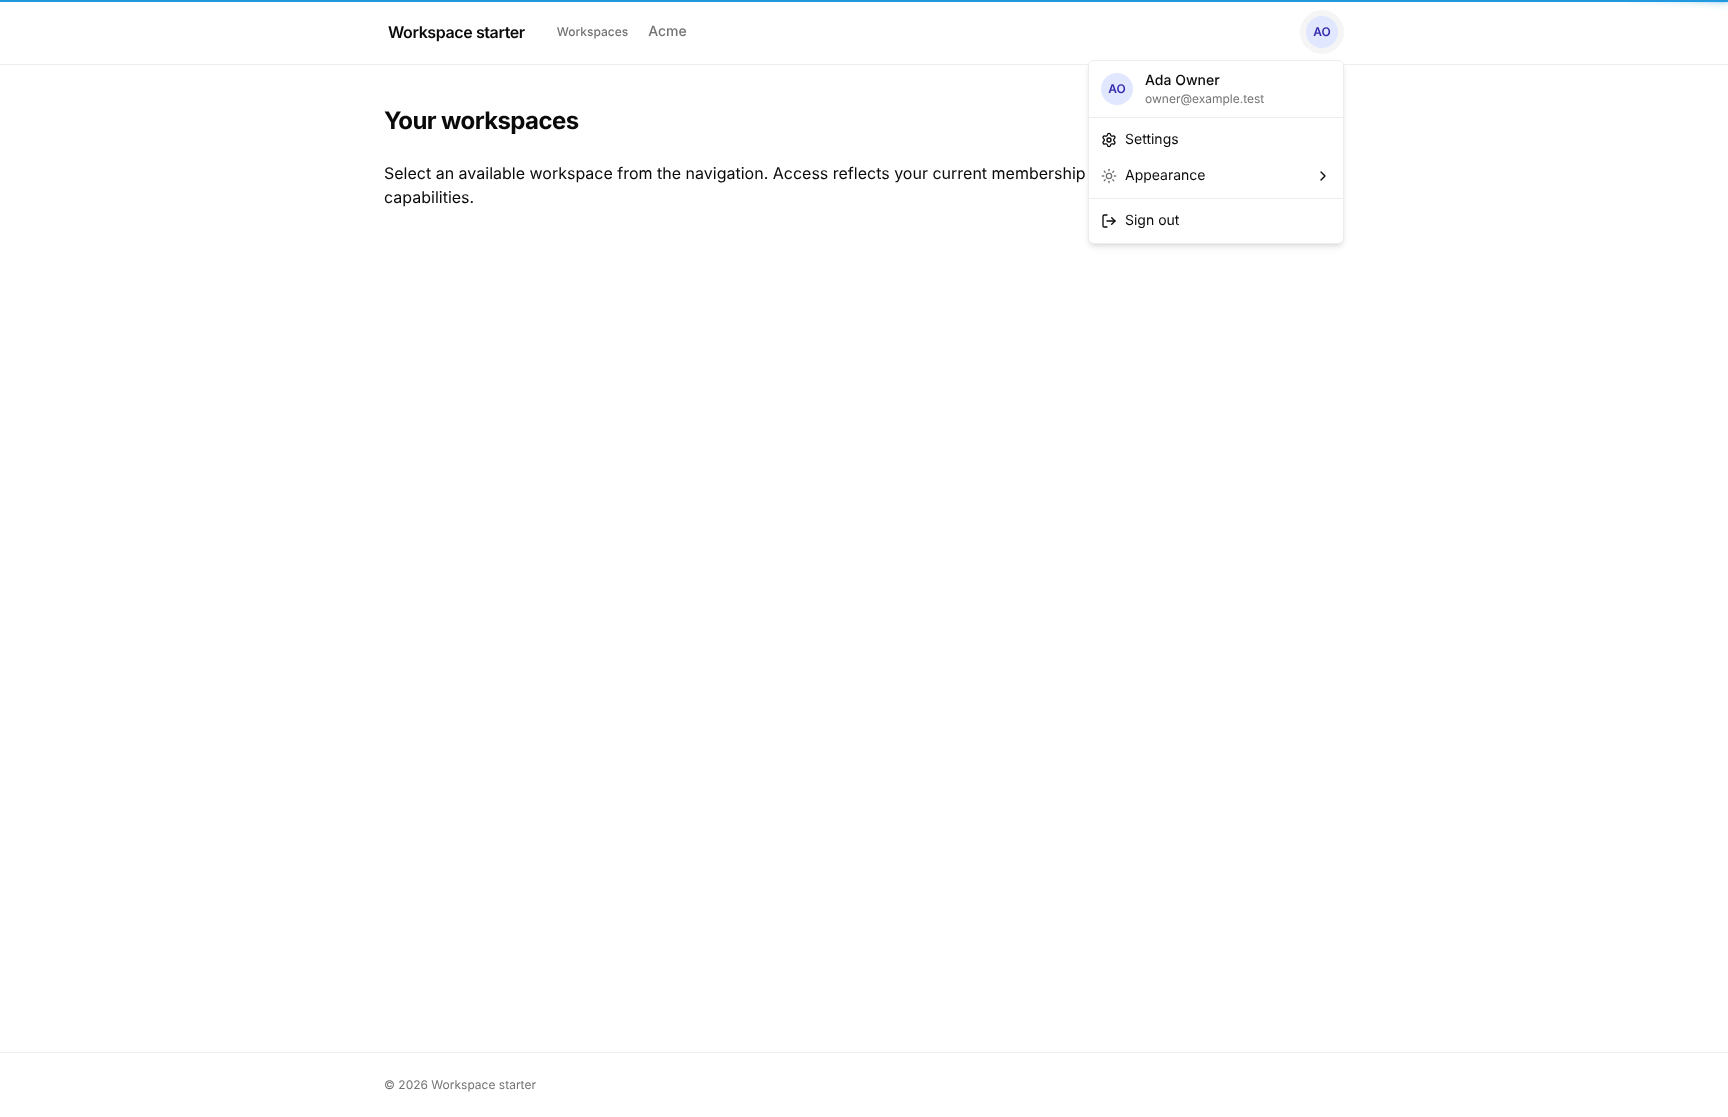
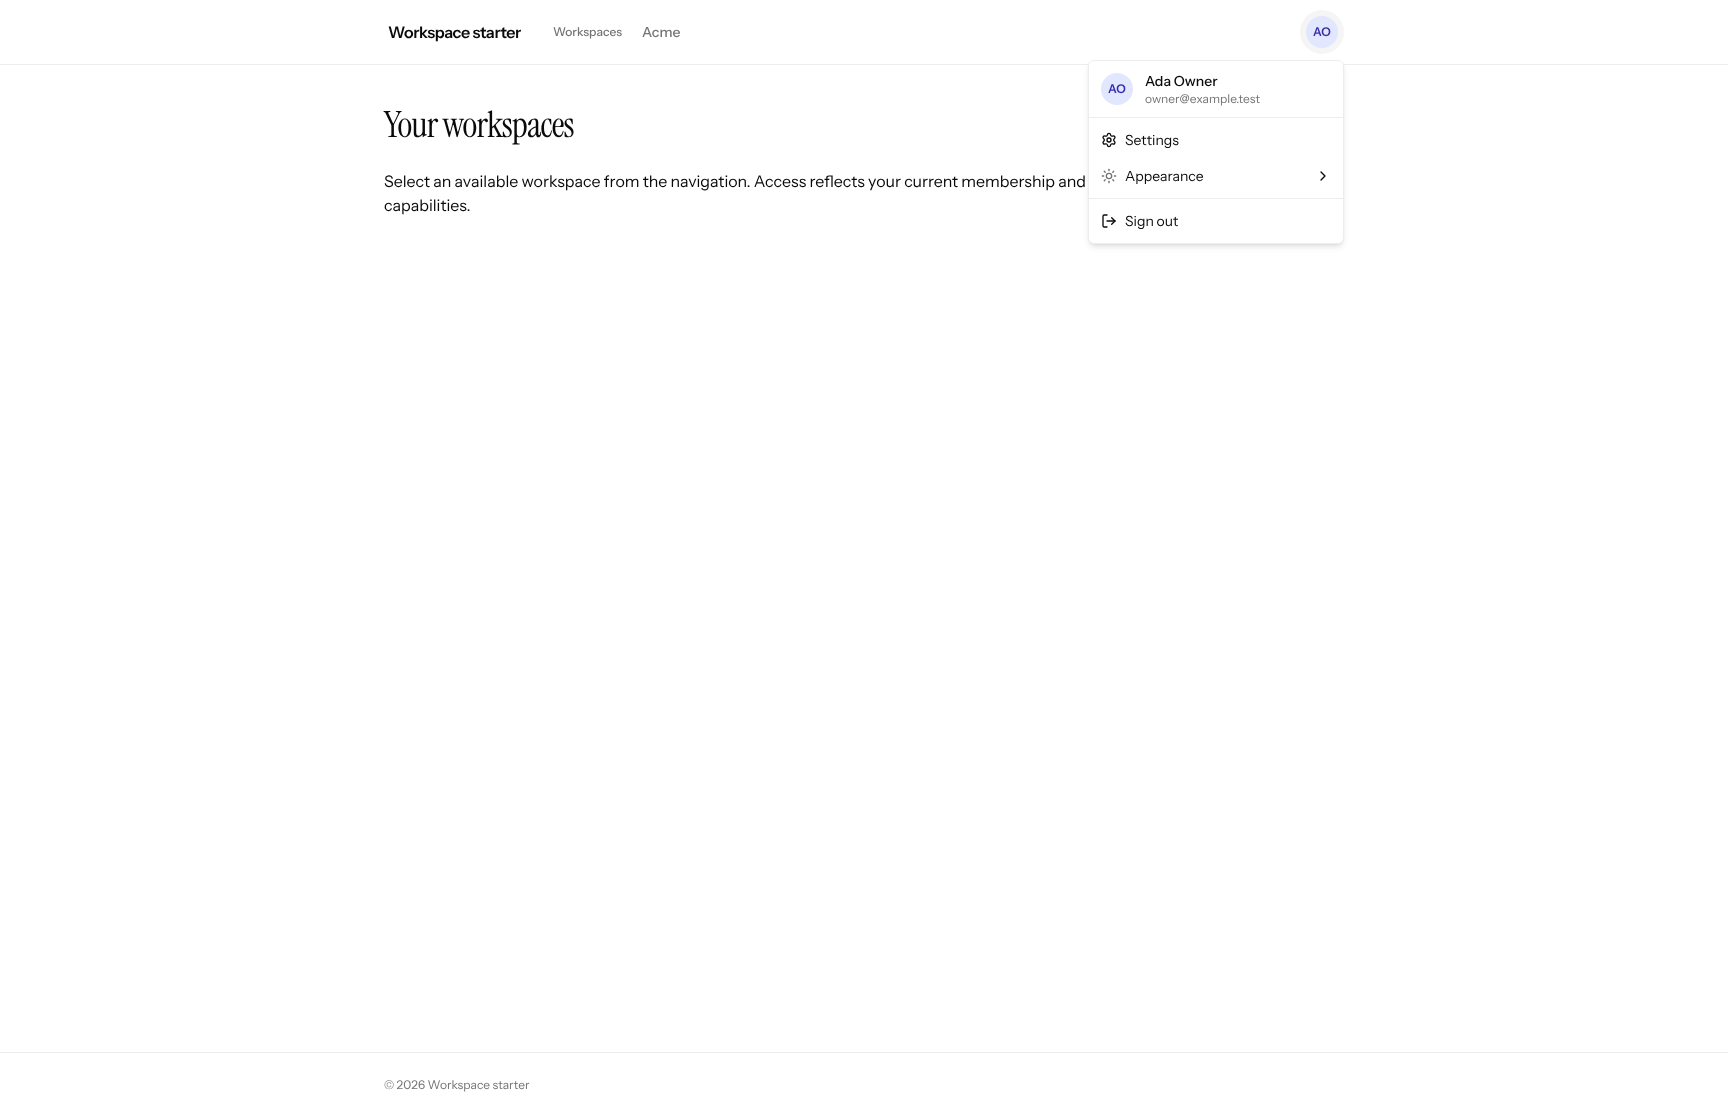
Set the starter's fonts (#44)
* Set the starter's fonts

Instrument Sans for text, Instrument Serif for page and sign-in titles,
and IBM Plex Mono for code, loaded from fonts.bunny.net in the app layout
with system fallbacks, and set as --font-sans, --font-serif and
--font-mono in resources/css/app.css. The browser test waits for the
fonts before each screenshot.

* Refresh the screenshots with the new fonts

diff --git a/resources/css/app.css b/resources/css/app.css
@@ -8,10 +8,17 @@
 @custom-variant dark (&:is(.dark *));
 
 @theme inline {
+    /* Loaded from fonts.bunny.net in resources/views/app.blade.php; the system stacks stand in until they arrive. */
     --font-sans:
-        Instrument Sans, ui-sans-serif, system-ui, sans-serif,
+        'Instrument Sans', ui-sans-serif, system-ui, sans-serif,
         'Apple Color Emoji', 'Segoe UI Emoji', 'Segoe UI Symbol',
         'Noto Color Emoji';
+    --font-serif:
+        'Instrument Serif', ui-serif, Georgia, Cambria, 'Times New Roman',
+        Times, serif;
+    --font-mono:
+        'IBM Plex Mono', ui-monospace, SFMono-Regular, Menlo, Monaco,
+        Consolas, 'Liberation Mono', 'Courier New', monospace;
 
     --radius-lg: var(--radius);
     --radius-md: calc(var(--radius) - 2px);
@@ -100,16 +107,6 @@
     ::backdrop,
     ::file-selector-button {
         border-color: var(--color-gray-200, currentColor);
-    }
-}
-
-@layer utilities {
-    body,
-    html {
-        --font-sans:
-            'Instrument Sans', ui-sans-serif, system-ui, sans-serif,
-            'Apple Color Emoji', 'Segoe UI Emoji', 'Segoe UI Symbol',
-            'Noto Color Emoji';
     }
 }
 

diff --git a/resources/js/layouts/GuestLayout.vue b/resources/js/layouts/GuestLayout.vue
@@ -41,7 +41,7 @@ const product = computed(() => page.props.layout?.brand ?? '');
             data-guest-card
         >
             <div v-if="showHeading && title" class="space-y-2">
-                <h1 class="text-2xl font-bold tracking-tight text-foreground">
+                <h1 class="font-serif text-4xl tracking-tight text-foreground">
                     {{ title }}
                 </h1>
                 <p v-if="description" class="text-sm text-muted-foreground">

diff --git a/resources/js/layouts/AppLayout.vue b/resources/js/layouts/AppLayout.vue
@@ -81,7 +81,7 @@ const crumbs = computed(() =>
                 data-shell-content
             >
                 <ShellBreadcrumbs :breadcrumbs="crumbs" />
-                <h1 v-if="page.props.title" class="mb-6 text-2xl font-bold tracking-tight">{{ page.props.title }}</h1>
+                <h1 v-if="page.props.title" class="mb-6 font-serif text-4xl tracking-tight">{{ page.props.title }}</h1>
                 <slot />
             </div>
         </main>

diff --git a/resources/js/pages/Auth/SignIn/Page.vue b/resources/js/pages/Auth/SignIn/Page.vue
@@ -19,7 +19,7 @@ defineProps<{
     <Head :title="title" />
 
     <div class="space-y-2 text-center">
-        <h1 class="text-2xl font-bold tracking-tight text-foreground">Sign in to your account</h1>
+        <h1 class="font-serif text-4xl tracking-tight text-foreground">Sign in to your account</h1>
         <p class="text-sm text-muted-foreground">Enter your email and password below to sign in</p>
     </div>
 

diff --git a/tests/Browser/SignIn.php b/tests/Browser/SignIn.php
@@ -12,6 +12,14 @@ use Tey\Kit\Features\Workspaces\Operations\AcceptWorkspaceInvitation;
 
 // Smoke: the designed sign-in page loads, the owner signs in, the app shell lists their workspace and opens it, and
 // their name is in the user menu, not the nav.
+// The web fonts have arrived (or failed) before each screenshot.
+function settled(mixed $page): mixed
+{
+    $page->script('() => document.fonts.ready.then(() => true)');
+
+    return $page;
+}
+
 it('signs the owner in to the app shell', function (): void {
     expect(app(Kernel::class)->call('migrate', ['--force' => true]))->toBe(0);
     expect(app(Kernel::class)->call('concierge:sync-roles', ['--no-interaction' => true]))->toBe(0);
@@ -24,8 +32,8 @@ it('signs the owner in to the app shell', function (): void {
     $page = visit('/login')
         ->assertSee('Sign in to your account')
         ->assertPresent('[data-guest-card]')
-        ->assertNoJavaScriptErrors()
-        ->screenshot(filename: 'sign-in');
+        ->assertNoJavaScriptErrors();
+    settled($page)->screenshot(filename: 'sign-in');
 
     $page->type('email', 'owner@example.test')
         ->type('password', $password)
@@ -35,13 +43,13 @@ it('signs the owner in to the app shell', function (): void {
         ->assertSeeIn('[data-shell-nav]', 'Workspaces')
         ->assertSeeIn('[data-shell-nav]', 'Acme')
         ->assertDontSeeIn('[data-shell-nav]', 'Ada Owner')
-        ->assertNoJavaScriptErrors()
-        ->screenshot(filename: 'app-shell');
+        ->assertNoJavaScriptErrors();
+    settled($page)->screenshot(filename: 'app-shell');
 
     $page->click('[data-shell-user-menu]')
         ->assertSee('Ada Owner')
-        ->assertSee('owner@example.test')
-        ->screenshot(filename: 'user-menu');
+        ->assertSee('owner@example.test');
+    settled($page)->screenshot(filename: 'user-menu');
 
     $page->keys('[role=menu]', 'Escape')
         ->click('Acme')
@@ -49,6 +57,6 @@ it('signs the owner in to the app shell', function (): void {
         ->assertSee('Workspace settings')
         ->assertSeeIn('[data-shell-nav]', 'Settings')
         ->assertSeeIn('[data-shell-nav]', 'Notes')
-        ->assertNoJavaScriptErrors()
-        ->screenshot(filename: 'workspace');
+        ->assertNoJavaScriptErrors();
+    settled($page)->screenshot(filename: 'workspace');
 });

diff --git a/resources/views/app.blade.php b/resources/views/app.blade.php
@@ -3,6 +3,8 @@
 <head>
     <meta charset="utf-8">
     <meta name="viewport" content="width=device-width, initial-scale=1">
+    <link rel="preconnect" href="https://fonts.bunny.net">
+    <link href="https://fonts.bunny.net/css?family=instrument-sans:400,500,600|instrument-serif:400,400i|ibm-plex-mono:400,500&display=swap" rel="stylesheet" />
     @vite('resources/js/app.ts')
     @inertiaHead
 </head>
